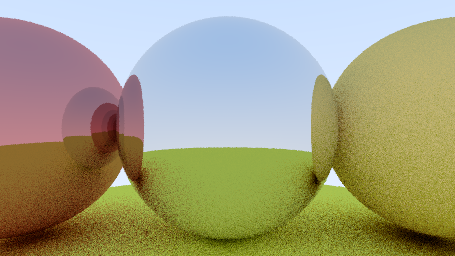
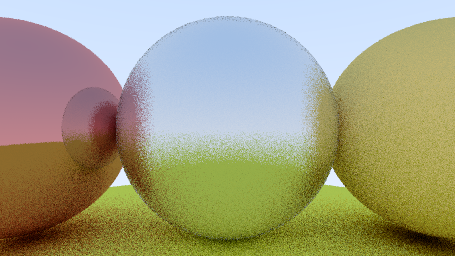
fuzzing

Changed region(s): [[0.0, 0.25, 1.0, 1.0], [0.4615, 0.0625, 0.4923, 0.0938]]

diff --git a/src/lib.rs b/src/lib.rs
@@ -53,8 +53,8 @@ pub struct RenderOption {
 impl World {
     pub fn new() -> World {
         let material_ground = Rc::new(Lambertian { color: V3(0.8, 0.8, 0.1) });
-        let material_left = Rc::new(Metal { color: V3(0.7, 0.3, 0.3) });
-        let material_center = Rc::new(Metal { color: V3(0.8, 0.8, 0.8) });
+        let material_left = Rc::new(Metal { color: V3(0.7, 0.3, 0.3), fuzz: 0.01 });
+        let material_center = Rc::new(Metal { color: V3(0.8, 0.8, 0.8), fuzz: 0.3 });
         let material_right = Rc::new(Lambertian { color: V3(0.8, 0.6, 0.2) });
 
         let geom_ground = Box::new(Sphere {
@@ -258,11 +258,13 @@ impl Material for Lambertian {
 #[derive(Debug, Clone, Copy)]
 struct Metal {
     color: Color,
+    fuzz: f64,
 }
 
 impl Material for Metal {
     fn scatter(&self, ray: Ray, hit: &HitRecord) -> (Color, Option<Ray>) {
-        let mut way = ray.way.reflect(hit.normal);
+        let reflect = ray.way.reflect(hit.normal);
+        let way = reflect + rand_hemisphere(reflect) * self.fuzz;
         let ray = Ray { pos: hit.pos, way: way.norm() };
         (self.color, Some(ray))
     }
